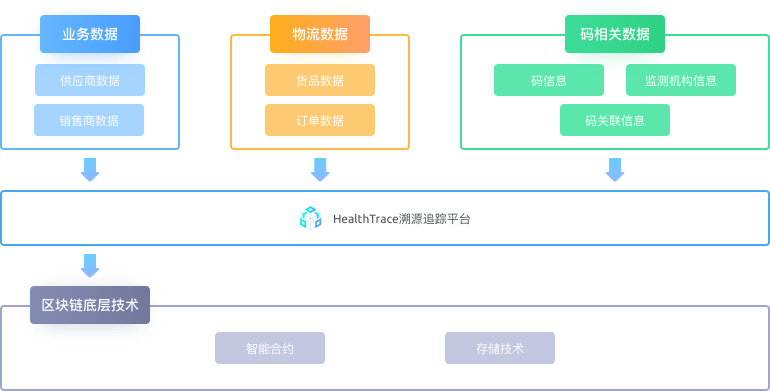
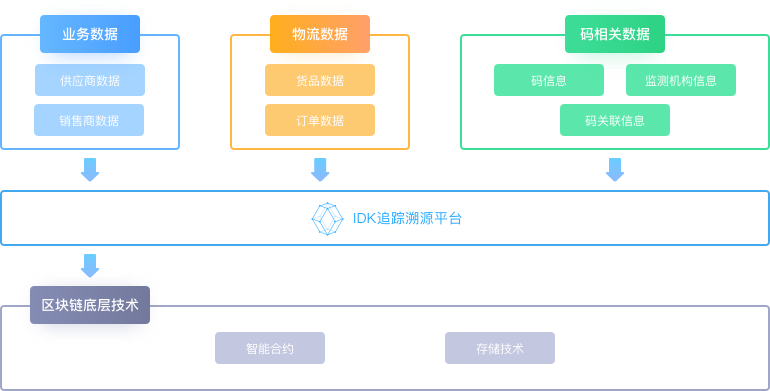
change

Changed region(s): [[0.374, 0.5217, 0.6234, 0.6138]]

diff --git a/index.html b/index.html
@@ -114,8 +114,10 @@
                 <img src="images/icon_adv@2x.png"/>
             </div>
             <div class="des col-md-6 col-sm-12">
-                <h2 data-localize="advantage.title">什么是InfiniteDimension</h2>
-                <p data-localize="advantage.desc">InfiniteDimension是集IOT物联网与区块链技术为一体的产品信息溯源平台</p>
+                <h2 data-localize="advantage.title">什么是 IDK?</h2>
+                <p data-localize="advantage.desc">IDK 是涵盖溯源防伪、供应链、IOT 和支付结算等领域的优质底
+                    层公链，致力于以区块链技术赋能传统产业，通过质量溯源、破除供
+                    需信息壁垒、调控商品供给，打造高度互信的新型经济协作生态体系。</p>
             </div>
         </div>
     </div>

diff --git a/html/solution.html b/html/solution.html
@@ -39,7 +39,7 @@
             <ul class="nav navbar-nav navbar-right">
                 <li class="white-paper">
                     <a href="javascript:;" data-localize="nav.menu1">白皮书</a>
-                    <ul>
+                    <ul>../images/pic_solution1@2x.png
                         <li><a target="_blank" href="../whitePaper/idk-whitePaper-zh.pdf">简体版下载</a></li>
                         <li><a target="_blank" href="../whitePaper/idk-whitePaper-zh.pdf">繁体版下载</a></li>
                         <li><a target="_blank" href="../whitePaper/idk-whitePaper-zh.pdf">英文版下载</a></li>

diff --git a/html/team1.html b/html/team1.html
@@ -65,7 +65,7 @@
 
 <div class="team container head-top">
     <div class="title" style="padding-top: 64px">
-        <h3>共赢链团队</h3>
+        <h3>IDK团队</h3>
         <div class="spacing"></div>
     </div>
     <div class="team-info">

diff --git a/html/team2.html b/html/team2.html
@@ -64,7 +64,7 @@
 
 <div class="team container head-top">
     <div class="title" style="padding-top: 64px">
-        <h3>共赢链团队</h3>
+        <h3>IDK团队</h3>
         <div class="spacing"></div>
     </div>
     <div class="team-info">

diff --git a/html/team3.html b/html/team3.html
@@ -64,7 +64,7 @@
 
 <div class="team container head-top">
     <div class="title" style="padding-top: 64px">
-        <h3>共赢链团队</h3>
+        <h3>IDK团队</h3>
         <div class="spacing"></div>
     </div>
     <div class="team-info">
